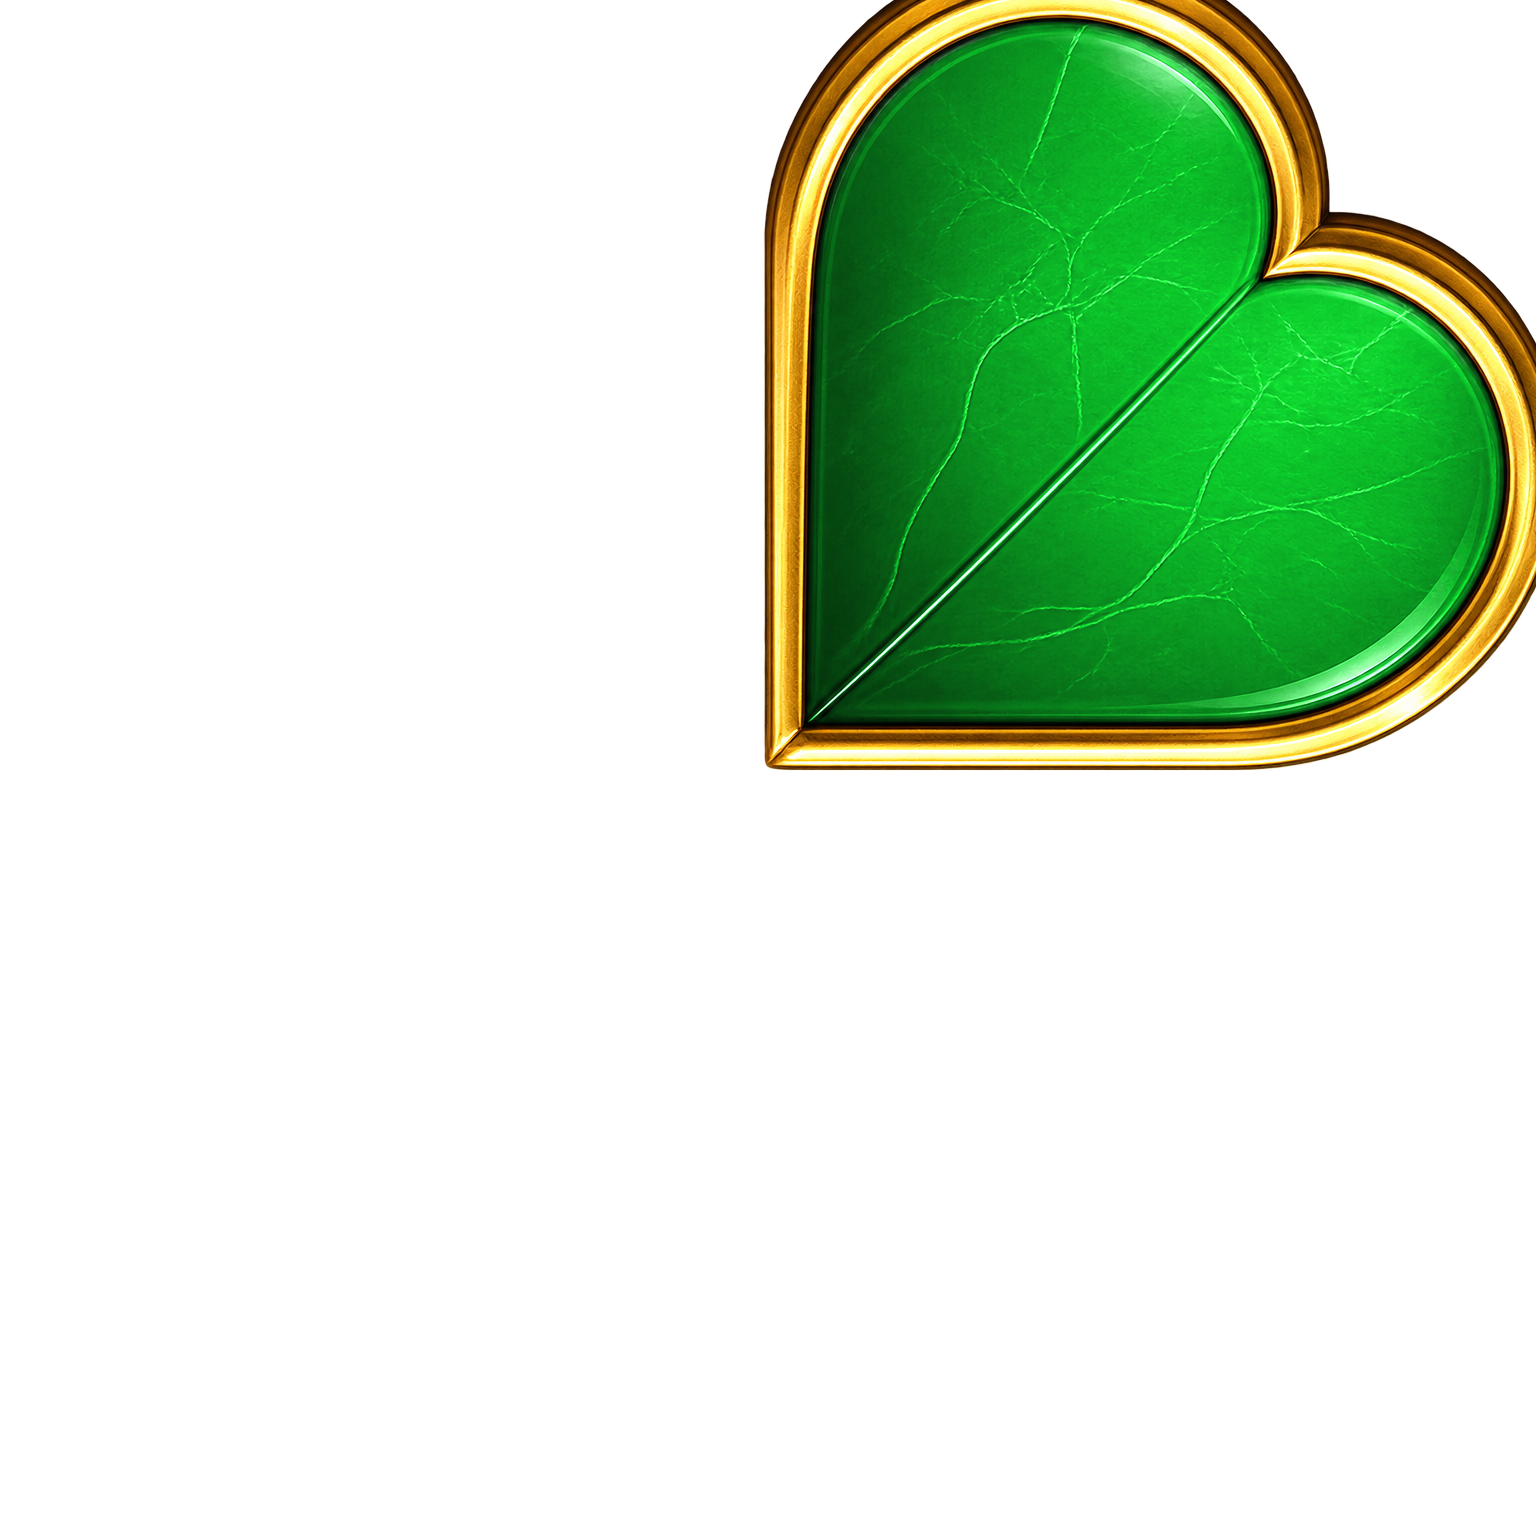
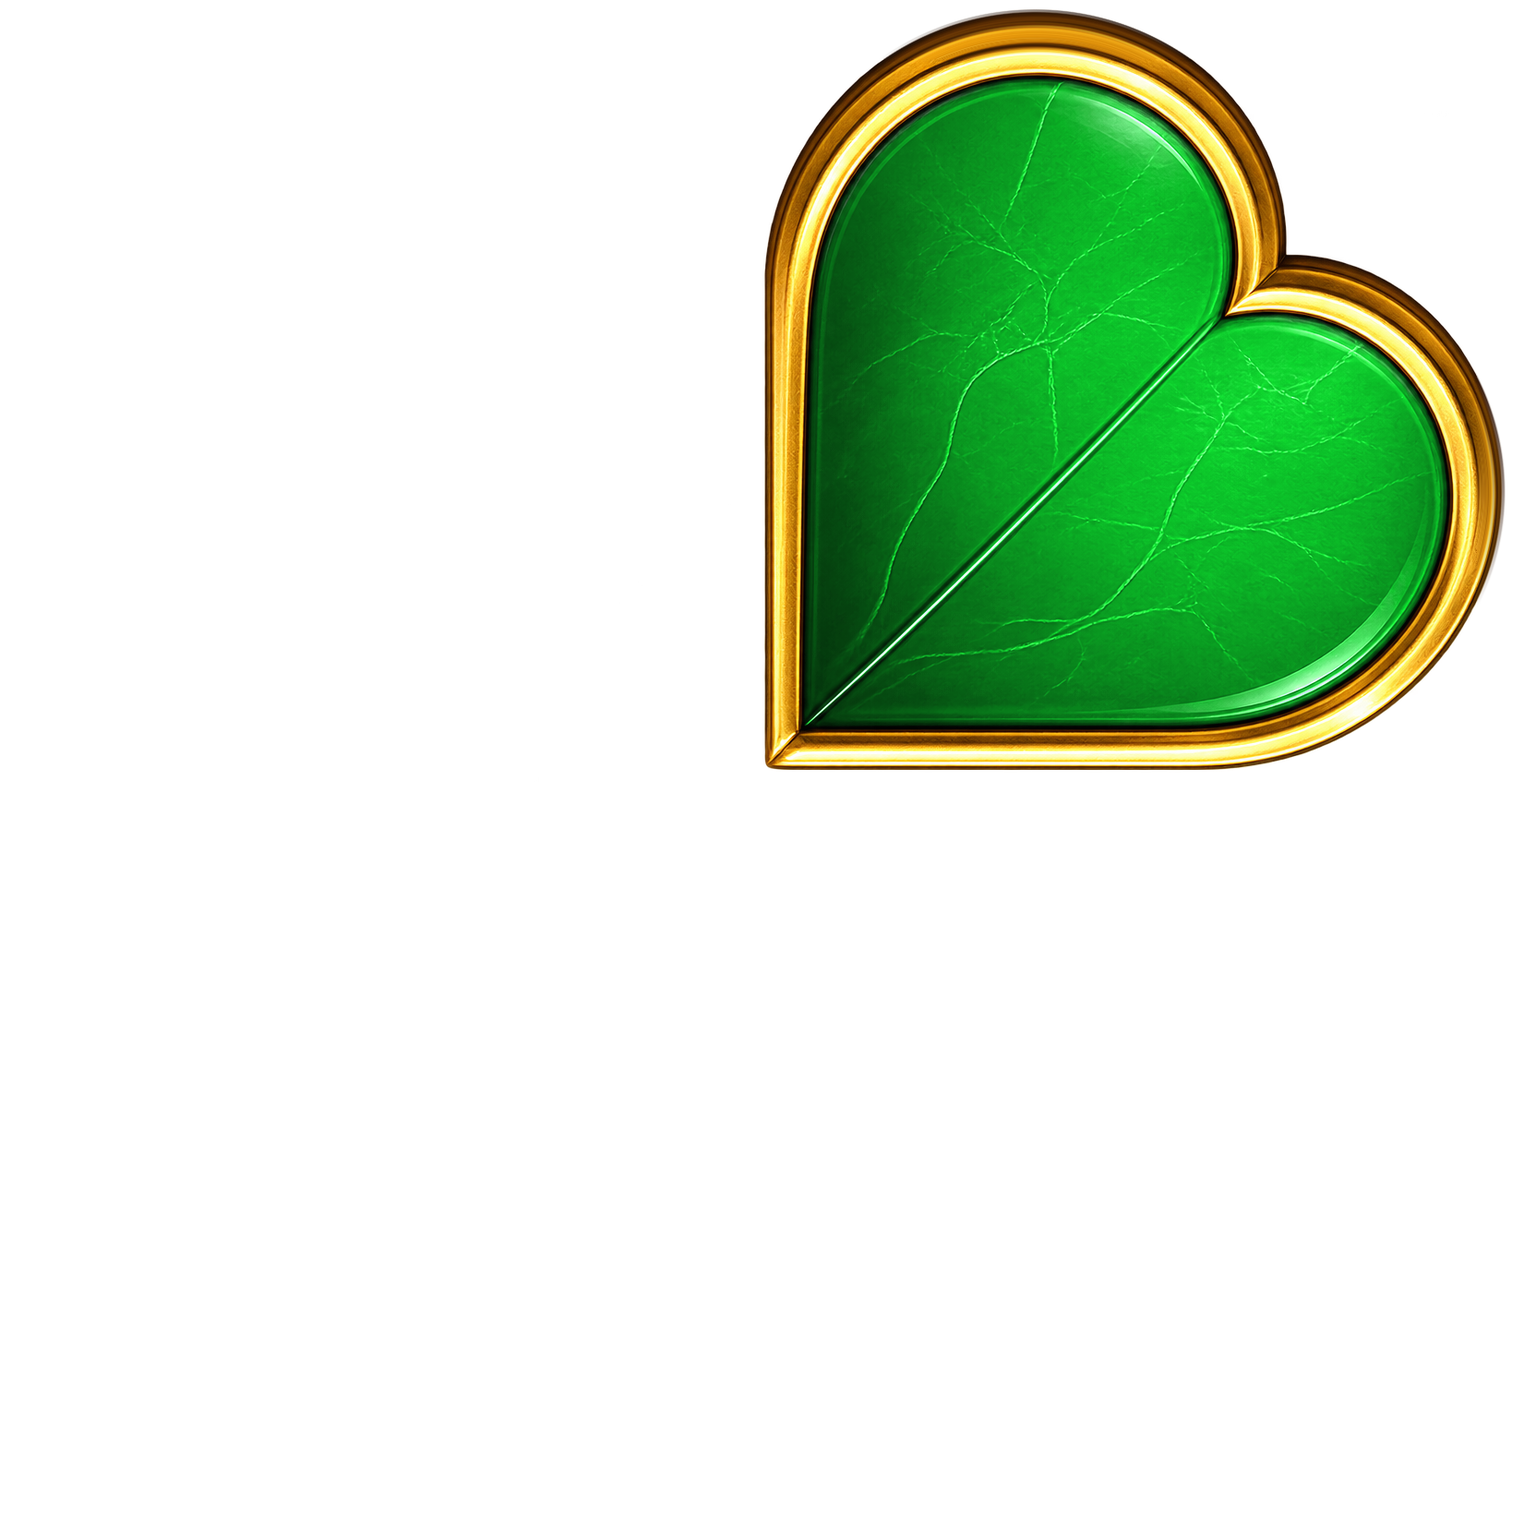
fix(guild): serve /guild without breaking assets, rebuild clipped clover lobes
Two separate problems on the Guild X page.

Routing: /guild without a trailing slash resolved every relative asset
against the site root, so the whole hero (petals, ring, X, crest, role
icons) 404'd. Added the /guild -> /guild/ redirect alongside the other
section redirects, plus <base href="/guild/"> so the page holds together
even when it is served at the bare path. Same approach already used for
/resume. While in the head, made og:image absolute and added the
canonical/og:url pair the page was missing.

Hero art: the four petal PNGs were exported with the clover overflowing
its canvas, so each lobe ended in a straight chord instead of a round cap
— the clover looked bitten off along all four edges. The lobes are
circular (circle fit residual ~1.4px on 1536px), so each missing cap was
rebuilt in the lobe's own polar frame: at a constant depth below the rim
the gap is interpolated between its two intact flanks, which carries the
real gold border, its bevel and its anti-aliased outer edge around the
new arc. The canvas is then scaled back to its original size, so all four
petals stay aligned and the CSS is untouched — the composite clover now
spans 98.8% of the canvas instead of 100% and clipped, a size change too
small to see. Same fix applied to the four role-badge icons.

Claude-Session: https://claude.ai/code/session_01S6YpSctZvS1scgxgqknbYy

diff --git a/guild/index.html b/guild/index.html
@@ -5,11 +5,14 @@
 <meta name="viewport" content="width=device-width,initial-scale=1,viewport-fit=cover">
 <meta name="theme-color" content="#050706">
 <meta name="mc-act-view" content="guild-x">
+<base href="/guild/">
 <title>Guild X · myClover</title>
 <meta name="description" content="Guild X — เมื่อ THINKER · TASTER · KEEPER · MAKER เอาจุดแข็งมาต่อกัน ความคิด Source และของที่สร้างอยู่จะไปได้ไกลกว่าการทำคนเดียว">
+<link rel="canonical" href="https://www.myclover.com/guild/">
 <meta property="og:title" content="Guild X · The Endgame Is Multiplayer">
 <meta property="og:description" content="4 Paths → X → HERO → Dungeon. เข้ามาเรียนรู้ แชร์ Source ขอ feedback และสร้างของร่วมกันใน Guild X">
-<meta property="og:image" content="assets/guild-crest.png">
+<meta property="og:url" content="https://www.myclover.com/guild/">
+<meta property="og:image" content="https://www.myclover.com/guild/assets/guild-crest.png">
 <link rel="preload" as="image" href="assets/petal-red.png">
 <link rel="preload" as="image" href="assets/petal-green.png">
 <link rel="preload" as="image" href="assets/petal-blue.png">
